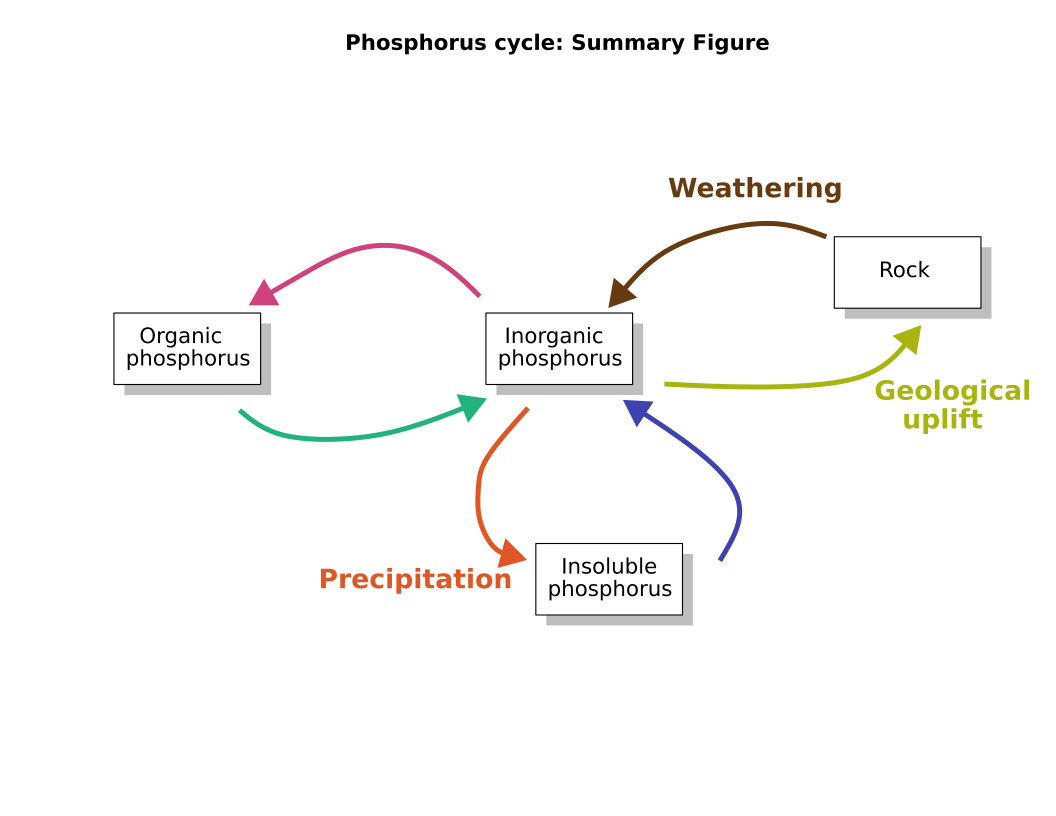
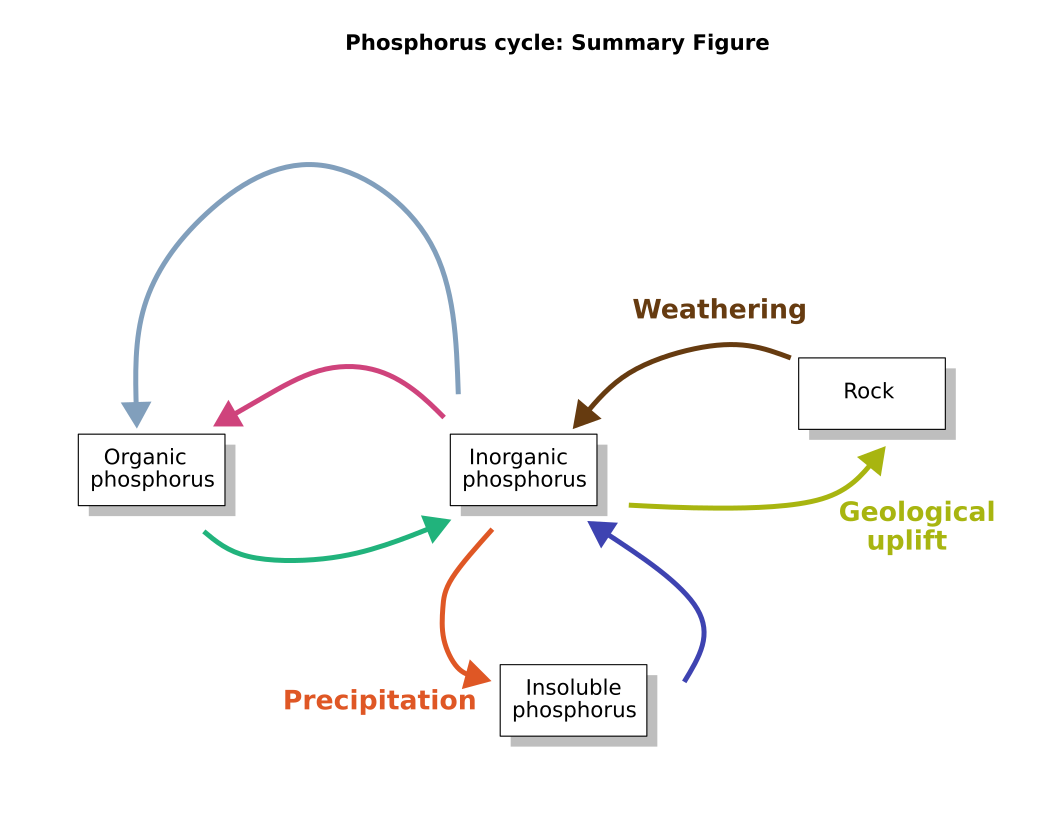
Update phosphorus cycle.

diff --git a/bigecyhmm/diagram_cycles.py b/bigecyhmm/diagram_cycles.py
@@ -360,13 +360,15 @@ def create_phosphorus_cycle(diagram_data, output_file):
     imgdraw = ImageDraw.Draw(img)
     font = ImageFont.load_default(20)
 
-    data_step_01 = diagram_data['P1-S-01:Immobilisation']
-    data_step_02 = diagram_data['P1-S-02:Mineralisation']
-    data_step_03 = diagram_data['P1-S-03:Dissolution']
+    data_step_01 = diagram_data['P1-S-01:Immobilisation (P-rich)']
+    data_step_02 = diagram_data['P1-S-01:Immobilisation (P-poor)']
+    data_step_03 = diagram_data['P1-S-02:Mineralisation']
+    data_step_04 = diagram_data['P1-S-03:Dissolution']
 
-    imgdraw.text((270,170), 'Immobilisation\nGenomes: {0}\nCoverage: {1}%'.format(data_step_01[0], data_step_01[1]), (193,67,124), font=font)
-    imgdraw.text((260,450), 'Mineralisation\nGenomes: {0}\nCoverage: {1}%'.format(data_step_02[0], data_step_02[1]), (33,179,124), font=font)
-    imgdraw.text((750,440), 'Dissolution\nGenomes: {0}\nCoverage: {1}%'.format(data_step_03[0], data_step_03[1]), (62,67,177), font=font)
+    imgdraw.text((250,280), 'Immobilisation (P-rich)\nGenomes: {0}\nCoverage: {1}%'.format(data_step_01[0], data_step_01[1]), (193,67,124), font=font)
+    imgdraw.text((240,80), 'Immobilisation (P-poor)\nGenomes: {0}\nCoverage: {1}%'.format(data_step_02[0], data_step_02[1]), (129,159,188), font=font)
+    imgdraw.text((260,570), 'Mineralisation\nGenomes: {0}\nCoverage: {1}%'.format(data_step_03[0], data_step_03[1]), (33,179,124), font=font)
+    imgdraw.text((720,580), 'Dissolution\nGenomes: {0}\nCoverage: {1}%'.format(data_step_04[0], data_step_04[1]), (62,67,177), font=font)
 
     img = img.resize((2112, 1632), Image.Resampling.LANCZOS)
     img.save(output_file, dpi=(300, 300), quality=100)

diff --git a/CHANGELOG.md b/CHANGELOG.md
@@ -1,6 +1,6 @@
 # Changelog
 
-# bigecyhmm v0.1.6 (2025-02-26)
+# bigecyhmm v0.1.6 (2025-03-17)
 
 ## Add
 
@@ -11,6 +11,7 @@
 * Creation of barplot showing the coverage of EsMeCaTa on each sample of a dataset.
 * Test for computing abundance of taxonomic rank (used to create the barplot showing the coverage of EsMeCaTa predicitons on the samples).
 * Cytochrome c oxidase in other cycle to highlight aerobic taxa. Update associated template.
+* Creation of HMM functional profile showing the abundance of each HMM in the sample of the dataset.
 
 ## Fix
 
